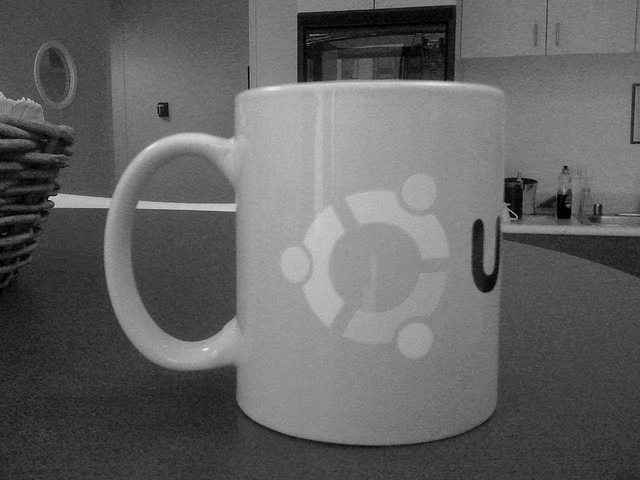
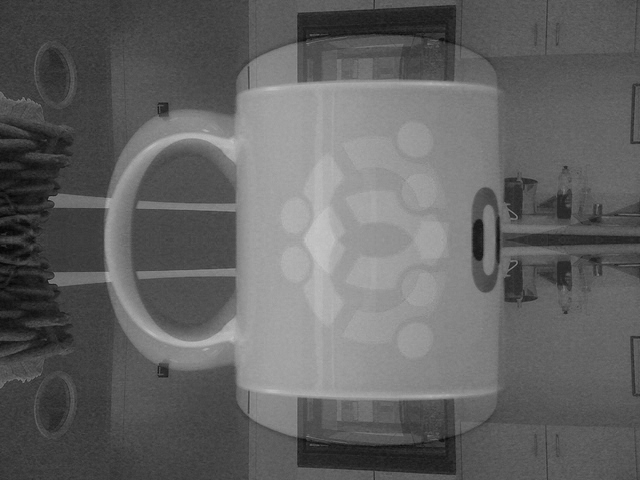
CEA

diff --git a/tp_image.py b/tp_image.py
@@ -3,17 +3,45 @@ from PIL import Image
 import numpy as np
 import matplotlib.pyplot as plt
 
-im = Image.open("data/mug.jpg")
-array = np.asarray(im).astype(np.float64)
-print(array.shape)
+def load(path):
+    im = Image.open(path)
+    array = np.asarray(im).astype(np.float64)
+    return array
 
-red = array[:,:,0]
+def save(array, path):
+    dest = Image.fromarray(array.astype(np.uint8)).convert("RGB")
+    dest.save(path)
 
-dest = Image.fromarray(red.astype(np.uint8)).convert("RGB")
-dest.save("data/out.png")
+def get_chanel(array, num):
+    return array[:,:,num]
 
-plt.imshow(red, cmap="Greys_r")
-plt.show()
+def show(array):
+    plt.imshow(array, cmap="Greys_r")
+    plt.show()
+
+def crop(array, north, south, east, west):
+    return array[north:-south,west:-east]
+
+def reduce(array, factor):
+    return array[::factor,::factor]
+
+def flip(array):
+    return array[::-1]
+
+def superpose(a1, a2):
+    return (a1 + a2) / 2
+
+
+if __name__ == '__main__':
+    array = load("data/mug.jpg")
+    red = get_chanel(array, 0)
+    cropped = crop(red,100,50,200,50)
+    reduced = reduce(red,2)
+    flipped = flip(red)
+    superposed = superpose(red, flipped)
+    save(superposed, "data/out.png")
+    show(superposed)
+
 
 # Faire une fonction get_chanel(array, num) et qui me retourne la matrice du chanel, par exemple get_chanel(array, 0) -> red
 # Créer les fonctions load & save qui charge et sauvegarde l'image
